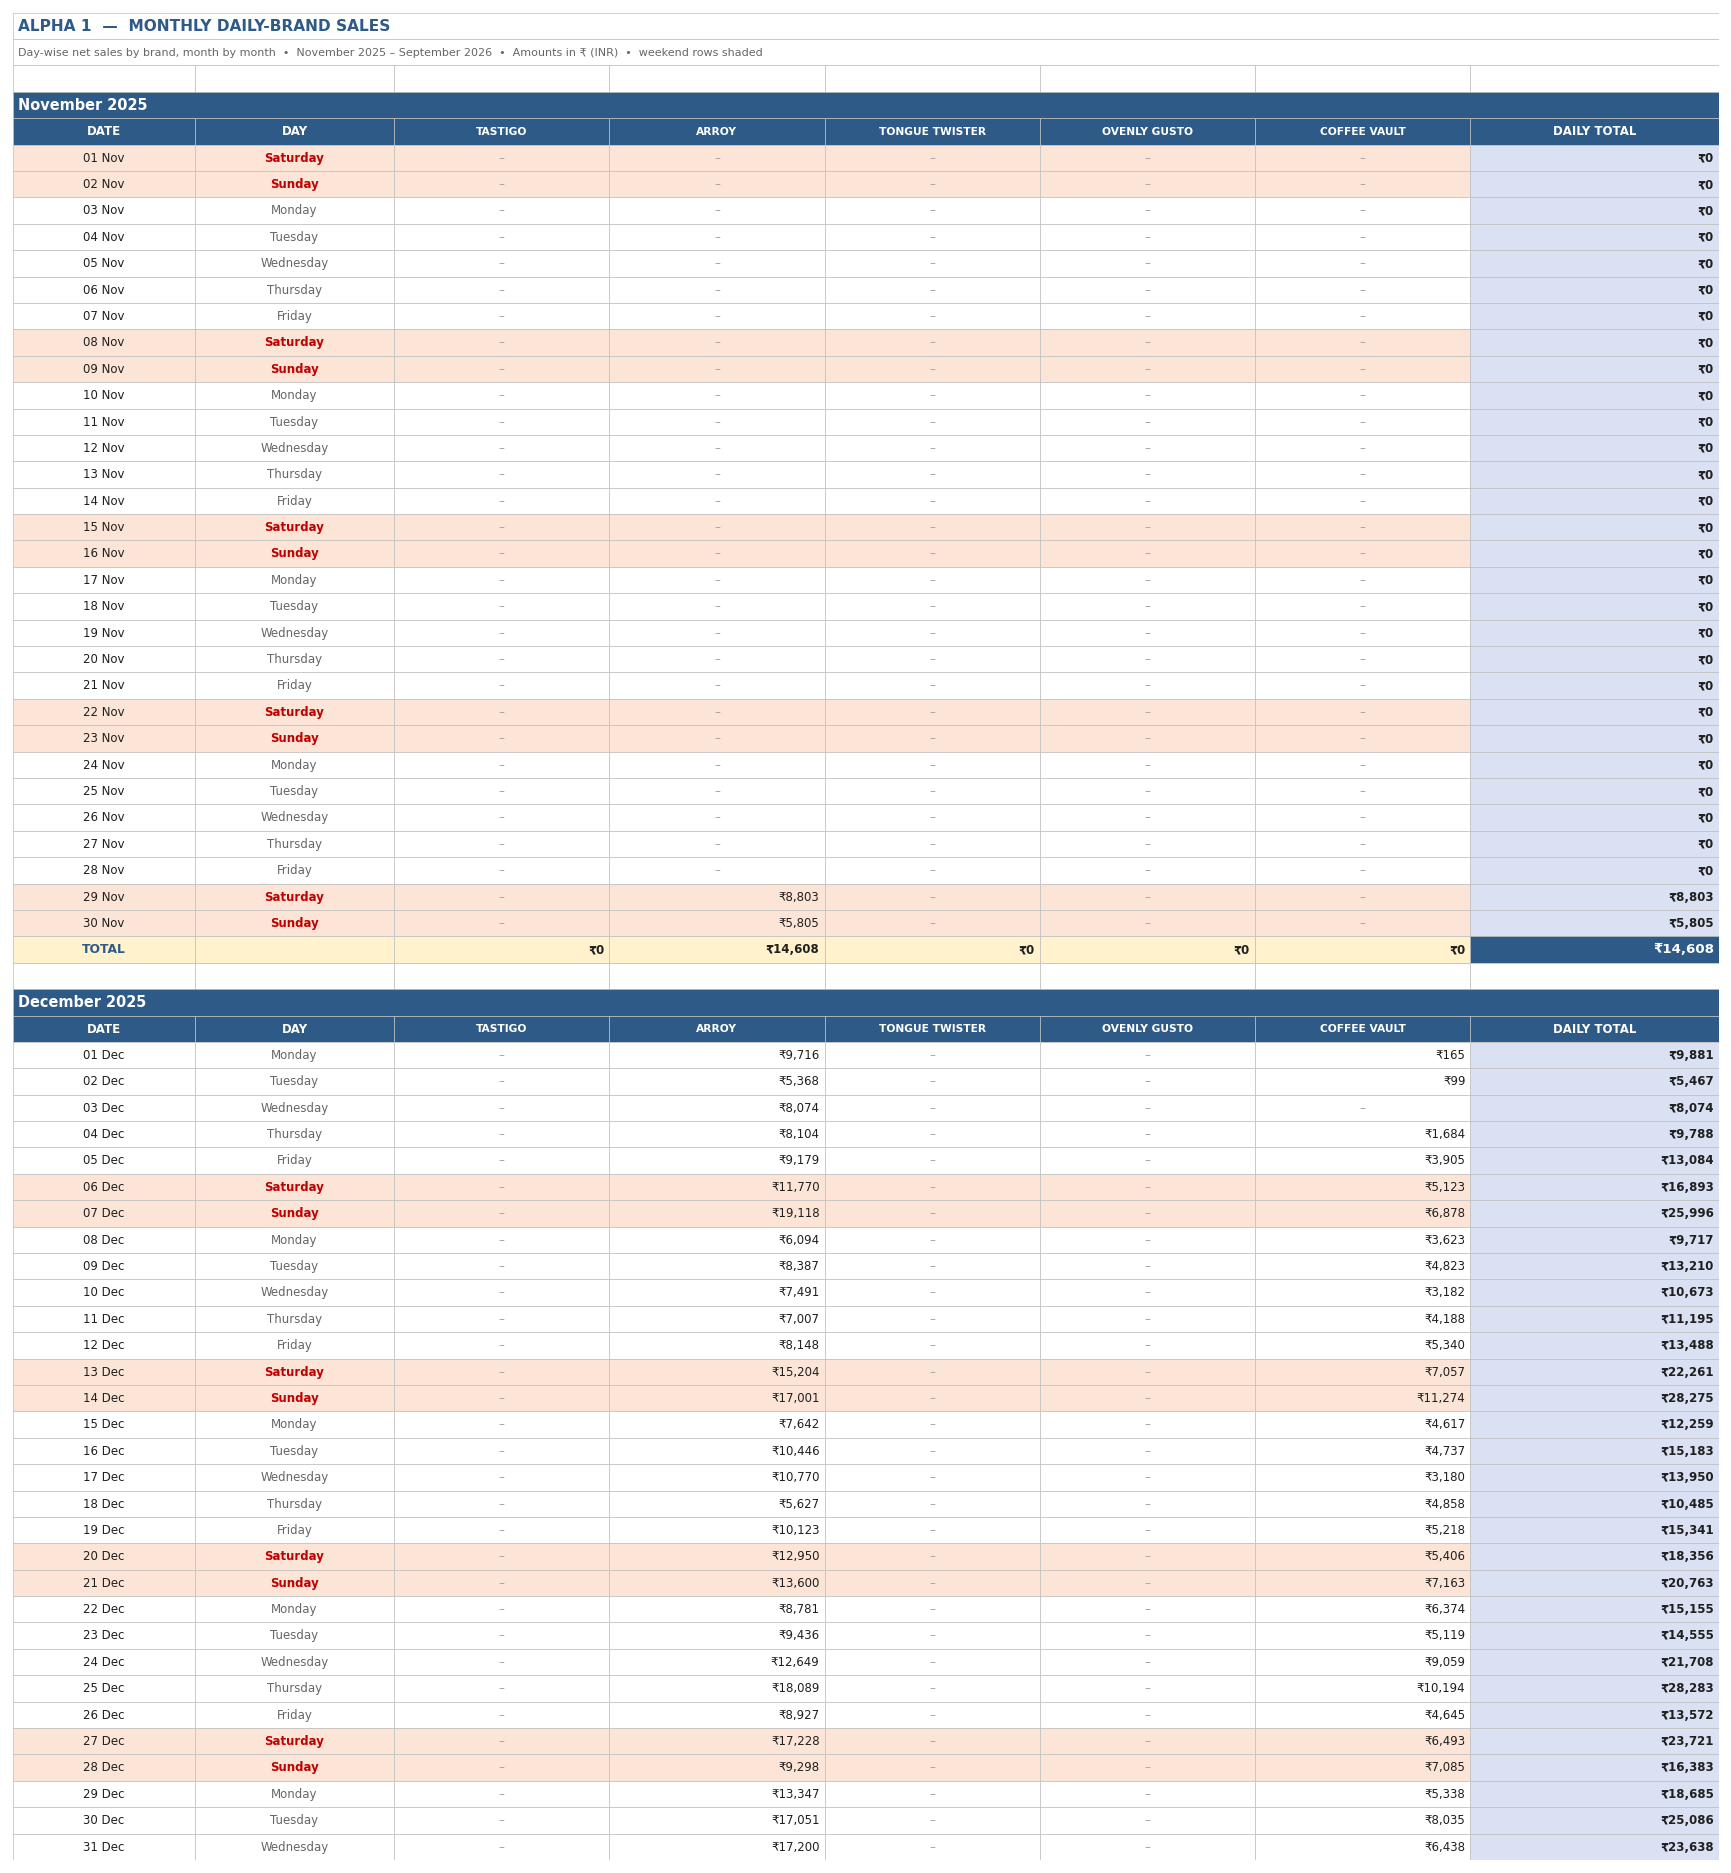
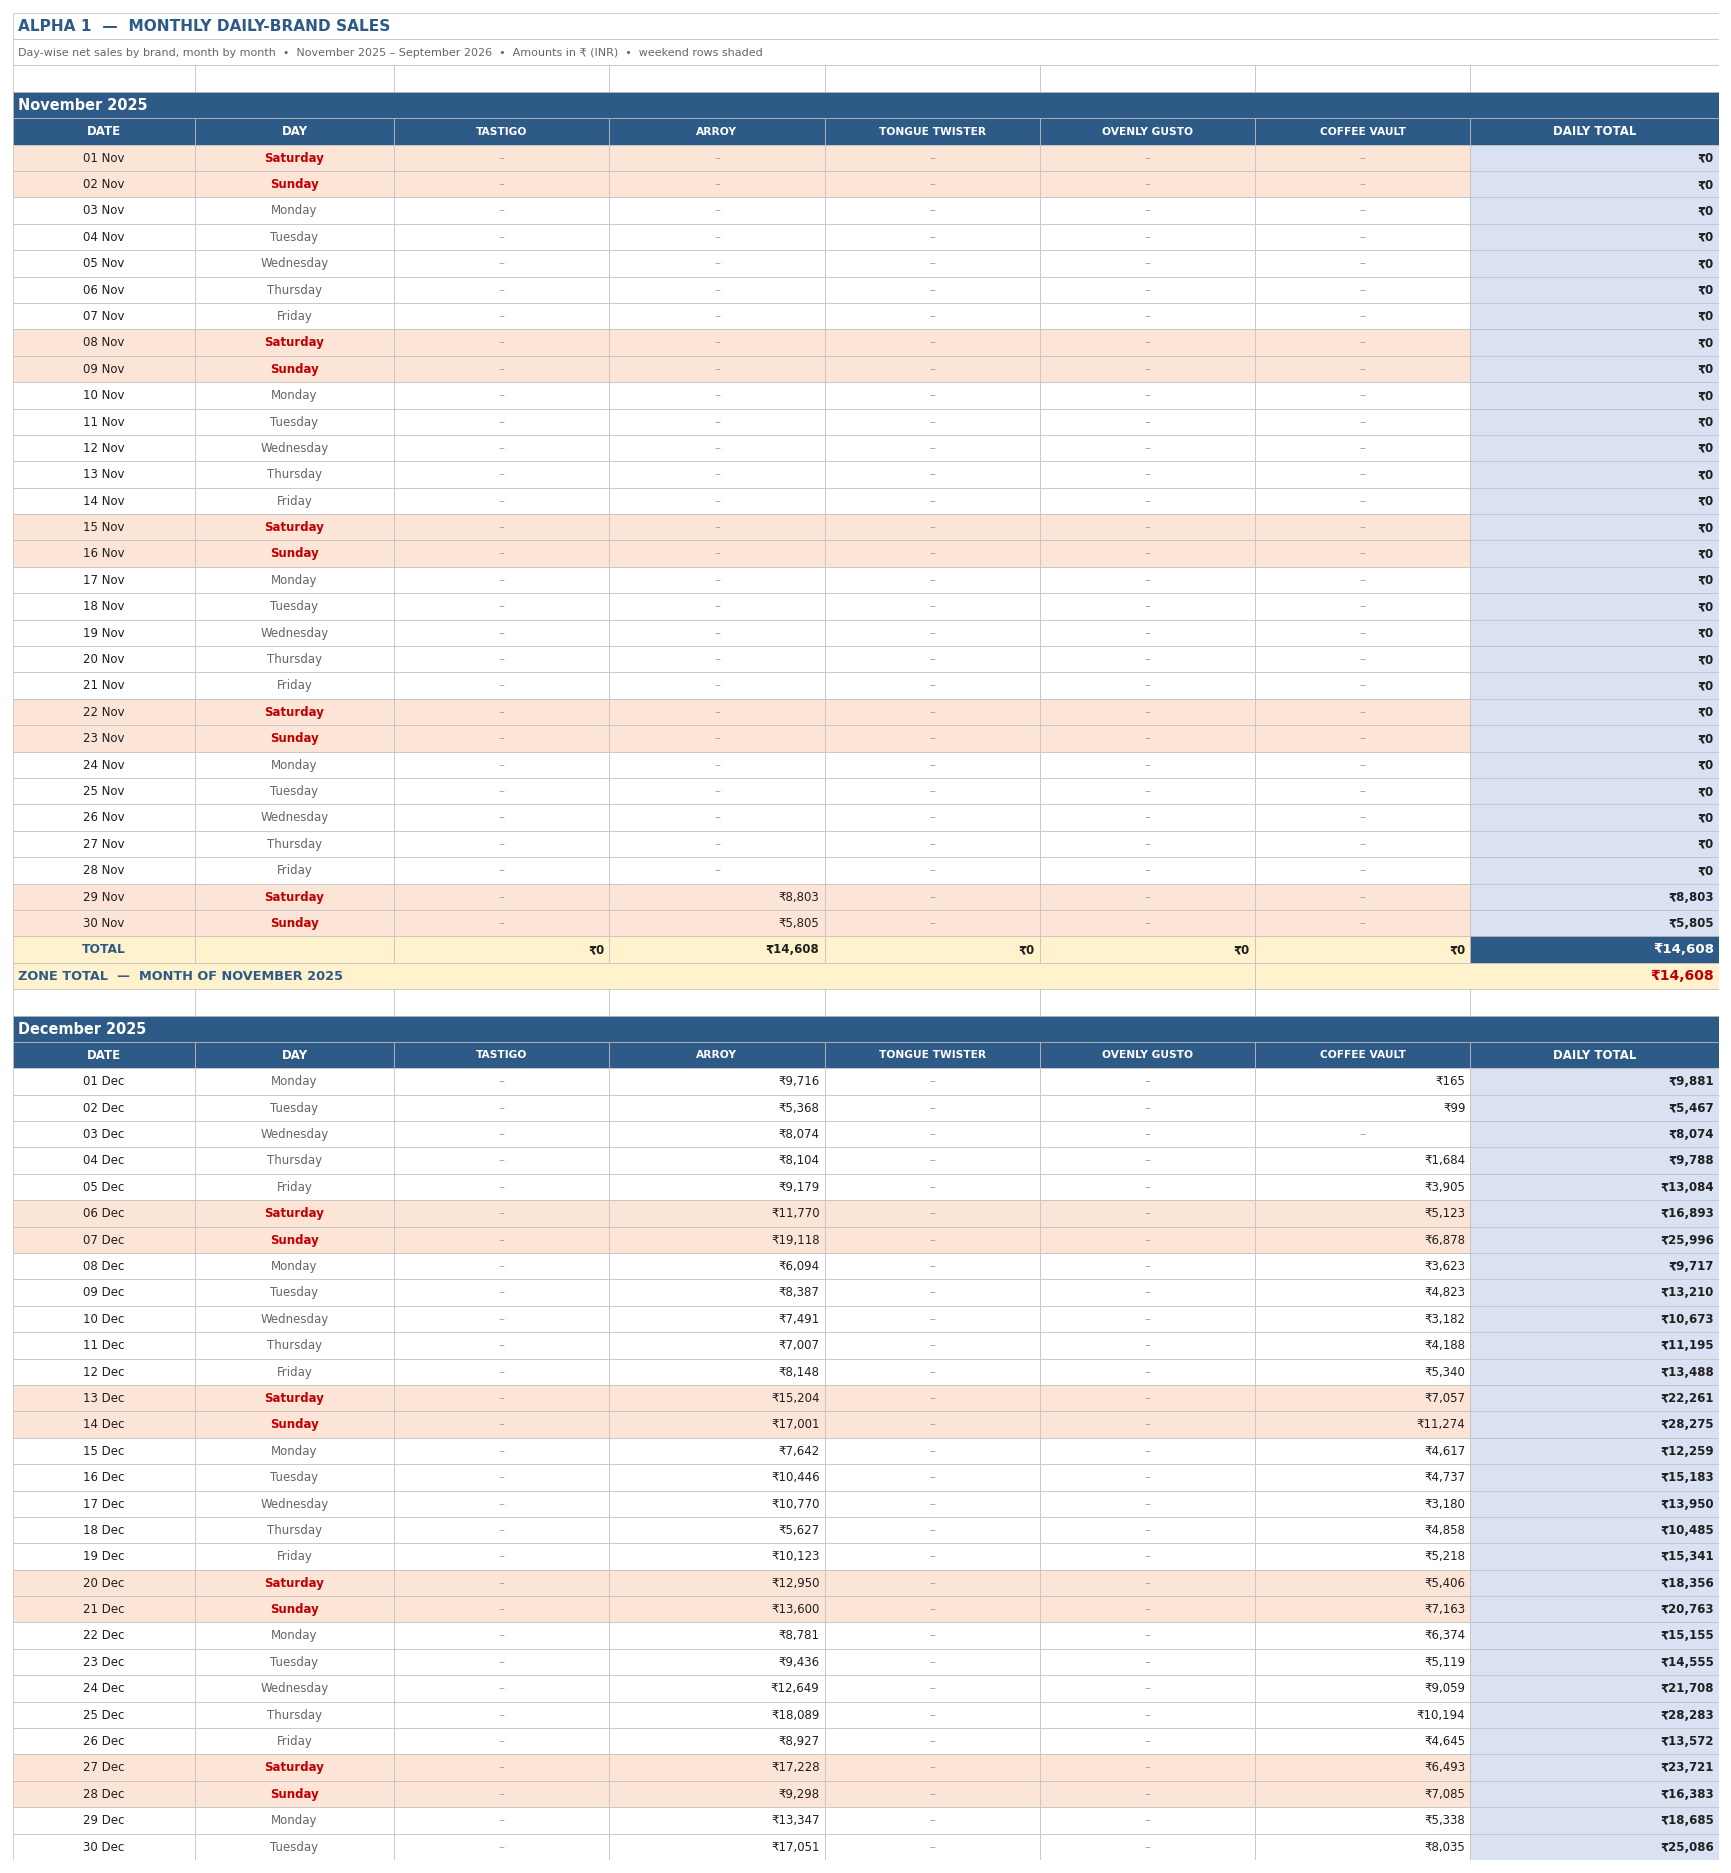
Add per-month ZONE TOTAL callout after each month's table
Each month block now ends with a 'ZONE TOTAL - MONTH OF <MONTH> <YEAR>'
callout line showing that month's total, in addition to the overall
zone grand total at the bottom.

Changed region(s): [[0.0, 0.4955, 0.9983, 0.9909]]

diff --git a/build_all_months_report.py b/build_all_months_report.py
@@ -124,6 +124,16 @@ def month_block(ws, r, month, brands, ncol, last):
         fmt=INR, indent=1, border=Border(left=hair, right=hair, top=med, bottom=med)).value = grand
     ws.row_dimensions[r].height = 22
     r += 1
+
+    # per-month ZONE TOTAL callout (right after this month's table)
+    ws.merge_cells(start_row=r, start_column=1, end_row=r, end_column=max(2, ncol - 2))
+    sty(ws.cell(r, 1), bold=True, size=11.5, color=BLUE, fill=YELLOW, align="left",
+        indent=1).value = f"ZONE TOTAL  \u2014  MONTH OF {month['name'].upper()} {yr}"
+    ws.merge_cells(start_row=r, start_column=ncol - 1, end_row=r, end_column=ncol)
+    sty(ws.cell(r, ncol - 1), bold=True, size=12.5, color=RED, fill=YELLOW,
+        align="right", fmt=INR, indent=1).value = grand
+    ws.row_dimensions[r].height = 22
+    r += 1
     return r, grand, brand_tot
 
 
